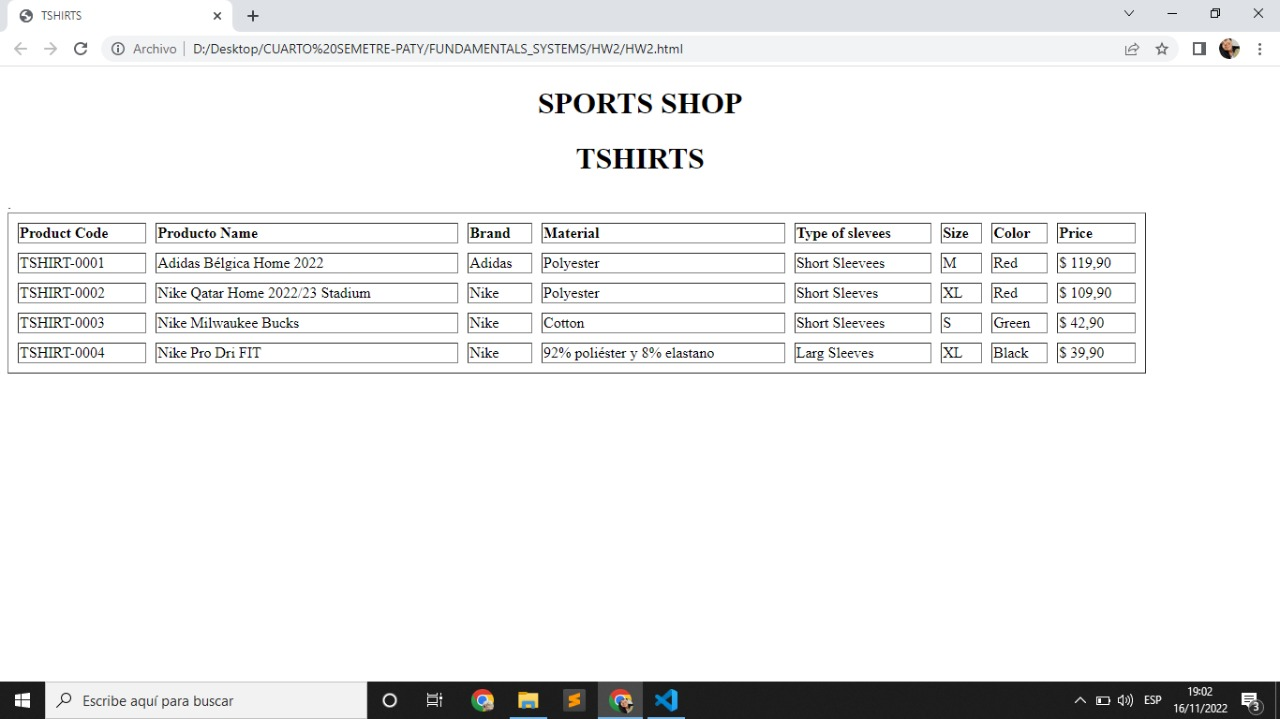
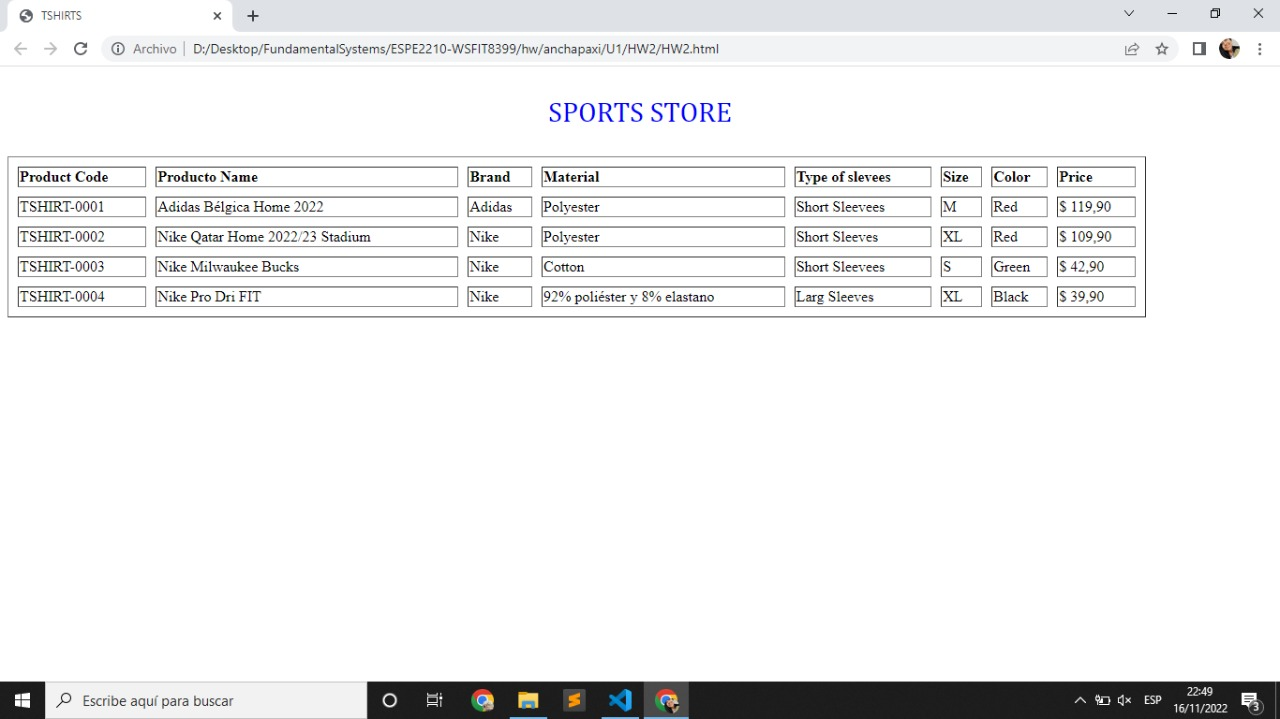
reupload WS5

Changed region(s): [[0.0, 0.1224, 0.9062, 0.5202], [0.1875, 0.0612, 0.5625, 0.0918], [0.4688, 0.9485, 0.5625, 1.0]]

diff --git a/hw/anchapaxi/U1/HW2/HW2.html b/hw/anchapaxi/U1/HW2/HW2.html
@@ -4,8 +4,8 @@
     <title> TSHIRTS </title>
   </head>
   <body>
-    <h1><center><b>SPORTS SHOP</b></h1></center>
-    <h1><center>TSHIRTS</h1></center>.
+    <center><p style="color: blue; font-size:30px; font-family:cambria"> SPORTS STORE </p></center>
+   
     <table border="1" cellspacing = "10" width = 90%>
         <tr>
             <td><b>Product Code</b></td>
